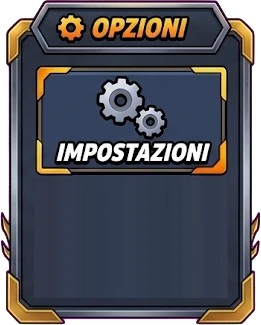
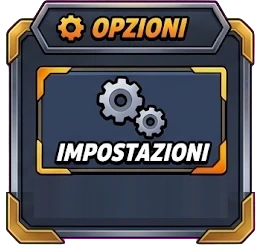
Menu: pannello Opzioni accorciato per i giocatori standard (niente slot vuoto)
Claude-Session: https://claude.ai/code/session_01N1kgZqYCEmtXvr8YomF3uu

diff --git a/src/js/ui.js b/src/js/ui.js
@@ -220,7 +220,7 @@ class UI{
         pic('prog',[302,216,421,326],[
           [340,R1,166,SH,'b_unl',L('unl'),()=>this.push('unl')],[520,R1,166,SH,'b_ach',L('ach'),()=>this.push('ach')],
           [340,R2,166,SH,'career',this.tr(CT.career),()=>this.push('career')],[520,R2,166,SH,'boards',this.tr(OT.boards),()=>this.push('boards',{tab:'weekly'})]]),
-        pic(test?'opts':'opts1',[735,216,261,325],[[773,R1,186,SH,'b_settings',L('settings'),()=>this.push('settings',{tab:'general'})],
+        pic(test?'opts':'opts1',[735,216,261,test?325:245],[[773,R1,186,SH,'b_settings',L('settings'),()=>this.push('settings',{tab:'general'})],
           ...(test?[[773,R2,186,SH,'b_sandbox',L('sandbox'),()=>this.push('sandboxCfg')]]:[])])));
   }
   testAll(){return !!this.save.settings.sandbox&&this.app.cloud.canTest;}   /* Test mode: switched on in Settings, and only for the owner's account and the whitelist */
